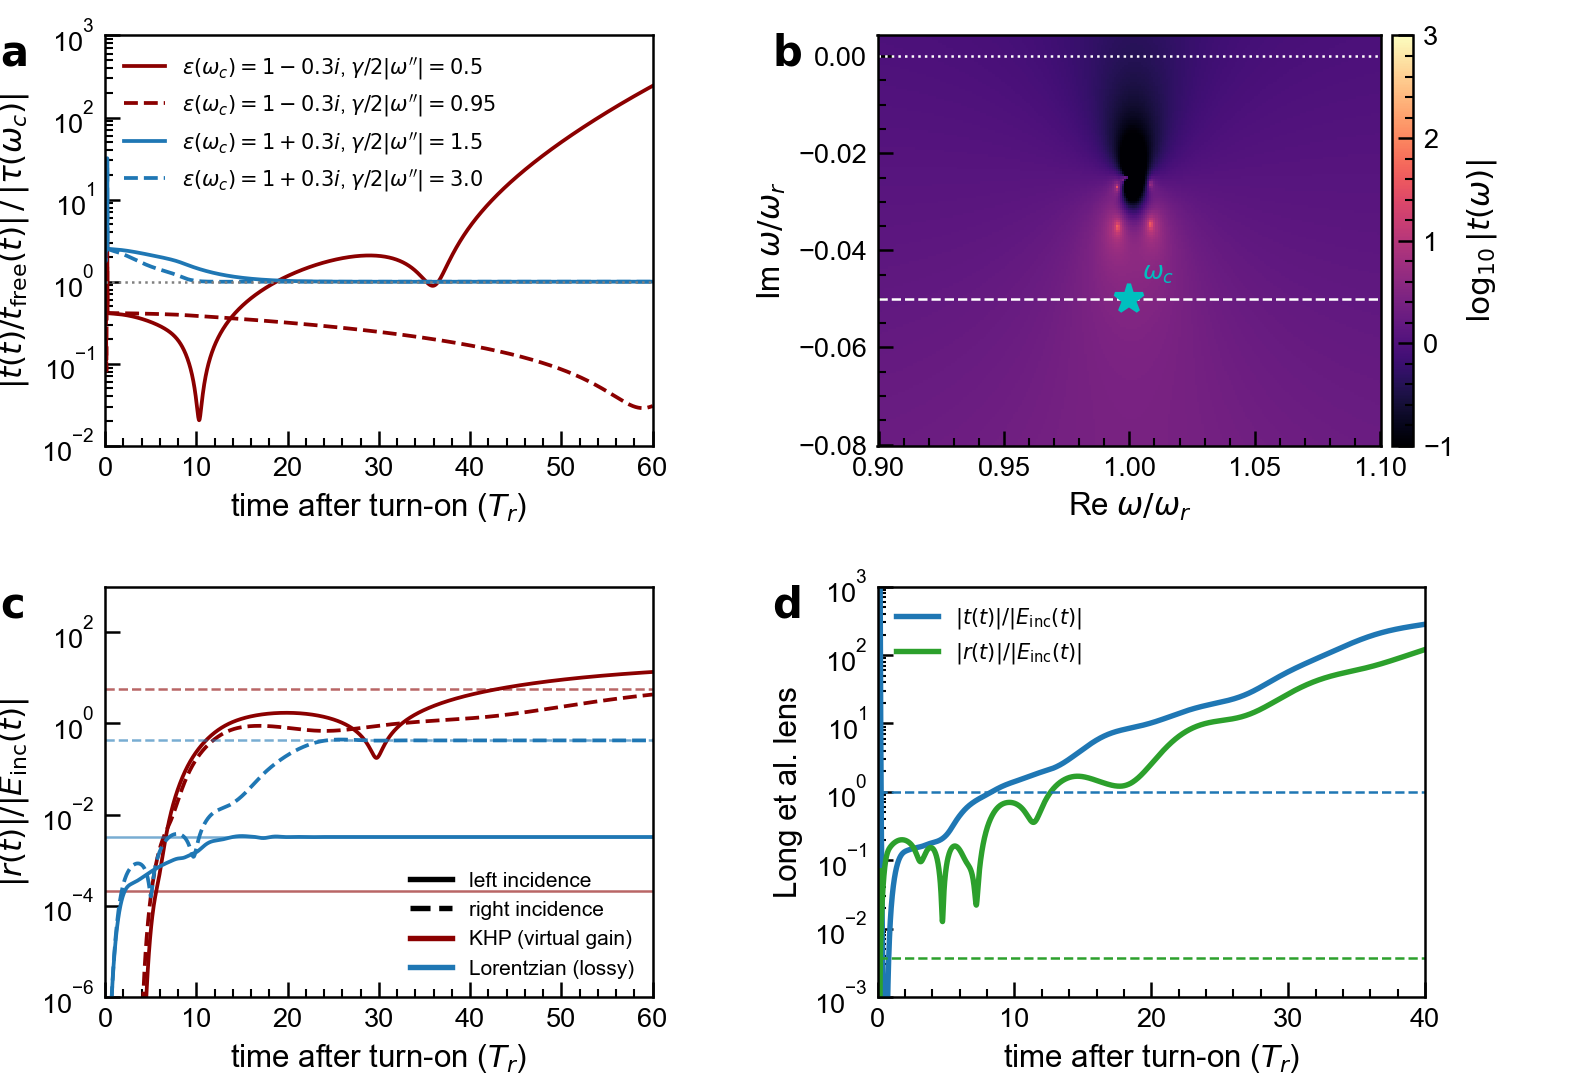
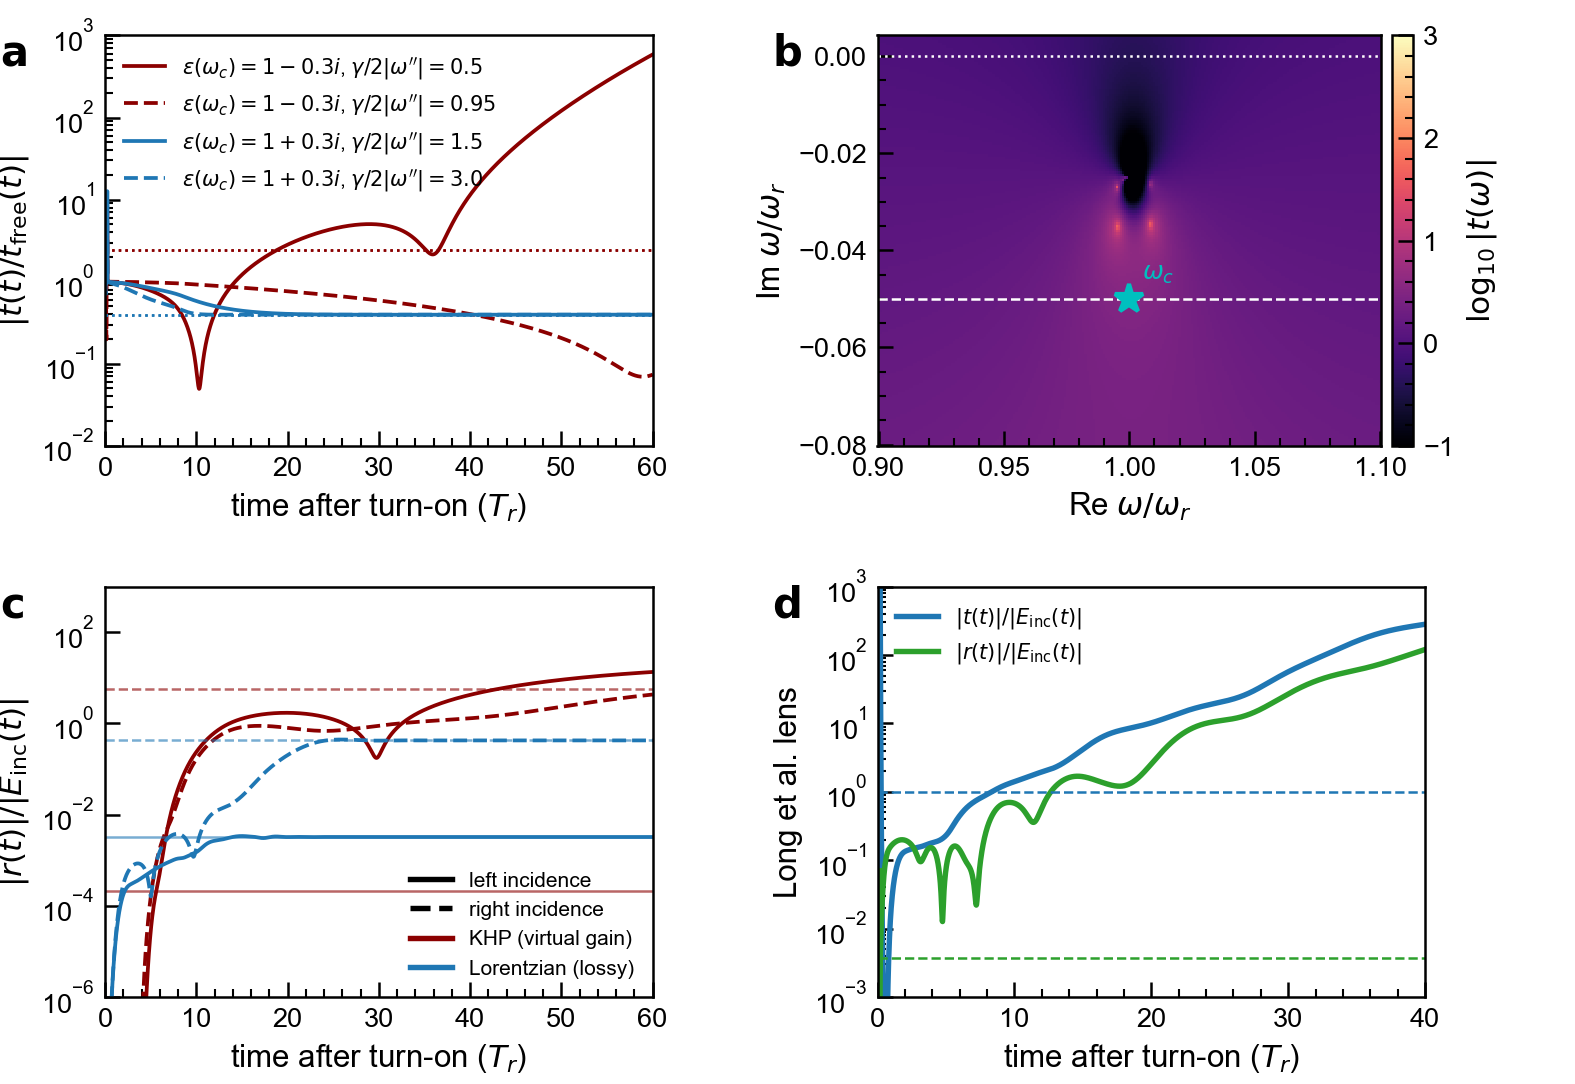
cfreq_skk: B3a y-axis is now |t/t_free| with the frequency-domain |tau(w_c)| as dotted lines
Claude-Session: https://claude.ai/code/session_01N5iorLwEt1hNwdqVYG53GG

Changed region(s): [[0.0622, 0.1827, 0.4044, 0.3958], [0.0, 0.0913, 0.0311, 0.3653], [0.3111, 0.0609, 0.4044, 0.1827]]

diff --git a/theory/cfreq_skk/comsol/fig_b3a_comsol.py b/theory/cfreq_skk/comsol/fig_b3a_comsol.py
@@ -56,17 +56,18 @@ def main():
         t, out, tau_c = tmm_fft(chi_im, ratio, eta, Ls)
         free = drive_c(t - Ls, eta)                       # free propagation to the exit face
         ok = np.abs(free) > 1e-10 * np.abs(free).max()
-        q = np.where(ok, np.abs(out) / np.where(ok, np.abs(free), 1), np.nan) / abs(tau_c)
+        q = np.where(ok, np.abs(out) / np.where(ok, np.abs(free), 1), np.nan)
         tt = t - T0 - Ls                                  # time after turn-on at the exit face
         lab = (rf'$\epsilon(\omega_c)=1{chi_im:+.1f}i$, $\gamma/2|\omega^{{\prime\prime}}|={ratio:g}$'
                ' (TMM$\\times$FFT)')
         ax_a.semilogy(tt, q, color=col, lw=C.LW_THIN, label=lab)
+        ax_a.axhline(abs(tau_c), color=col, lw=C.LW_GUIDE, ls=':')
 
         for name, R in runs.items():
             tc = R['t']; ec = R['e_exit'][k] - 1j * R['e_exit'][k + 1]
             fc = drive_c(tc - Ls, eta)
             okc = np.abs(fc) > 1e-10
-            qc = np.abs(ec[okc]) / np.abs(fc[okc]) / abs(tau_c)
+            qc = np.abs(ec[okc]) / np.abs(fc[okc])
             lsty, mlab = styles.get(name, ('-.', name))
             if name == 'dt100_rho0.75':
                 tq = tc[okc] - T0 - Ls
@@ -85,10 +86,9 @@ def main():
 
     ax_a.plot([], [], ls='none', marker='o', ms=2.6, mfc='none', mec='k', mew=0.6,
               label='COMSOL (temw, built-in Drude–Lorentz)')
-    ax_a.axhline(1, color='gray', lw=C.LW_GUIDE, ls=':')
     ax_a.set_xlim(0, 60); ax_a.set_ylim(1e-2, 1e3)
     ax_a.set_xlabel(r'time after turn-on ($T_r$)')
-    ax_a.set_ylabel(r'$|t(t)/t_{\rm free}(t)|\,/\,|\tau(\omega_c)|$')
+    ax_a.set_ylabel(r'$|t(t)/t_{\rm free}(t)|$')
     ax_a.legend(loc='upper left', fontsize=5)
 
     for name in runs:

diff --git a/theory/cfreq_skk/fig_cfreq_feasibility.py b/theory/cfreq_skk/fig_cfreq_feasibility.py
@@ -292,13 +292,13 @@ def fig_time():
         # denominator, so it cancels); the exit face sees the drive Ls later
         sh = int(round(Ls / DT))
         tt = t[sh:] - Ls
-        r = np.abs(rt_[sh:]) / np.abs(rf[sh:]) / abs(tau_c)
+        r = np.abs(rt_[sh:]) / np.abs(rf[sh:])           # |t/t_free| -> |tau(w_c)| if it settles
         lab = (rf'$\epsilon(\omega_c)={tgt.real:.0f}{tgt.imag:+.1f}i$, $\gamma/2|\omega^{{\prime\prime}}|={g}$')
         ax_a.semilogy(tt, r, color=col, ls=ls, lw=C.LW_THIN, label=lab)
-    ax_a.axhline(1, color='gray', lw=C.LW_GUIDE, ls=':')
+        ax_a.axhline(abs(tau_c), color=col, lw=C.LW_GUIDE, ls=':')   # freq-domain |tau(w_c)|
     ax_a.set_xlim(0, 60); ax_a.set_ylim(1e-2, 1e3)
     ax_a.set_xlabel(r'time after turn-on ($T_r$)')
-    ax_a.set_ylabel(r'$|t(t)/t_{\rm free}(t)|\,/\,|\tau(\omega_c)|$')
+    ax_a.set_ylabel(r'$|t(t)/t_{\rm free}(t)|$')
     ax_a.legend(loc='upper left', fontsize=5)
 
     # b: complex-w map of |t| for the virtual-gain slab (gam/2|b| = 0.5): poles above w_c
